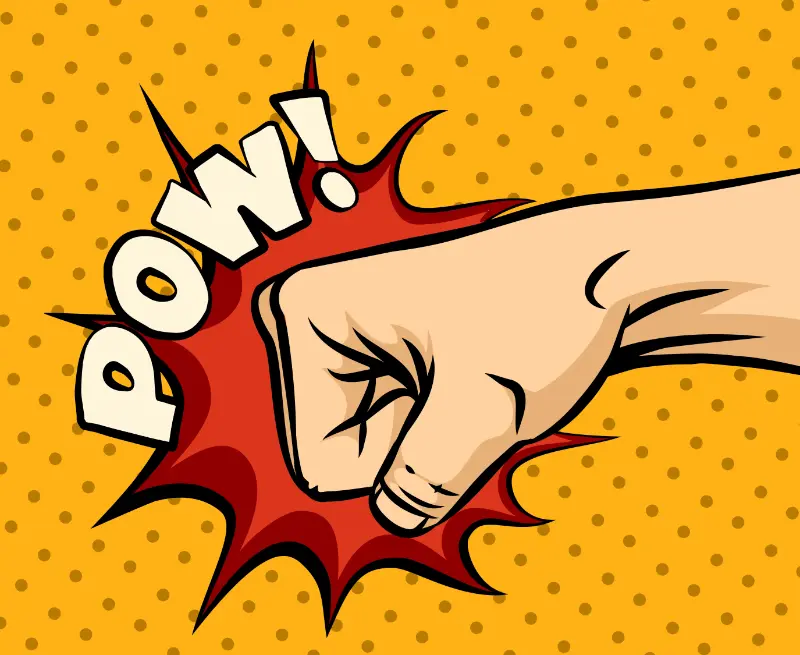
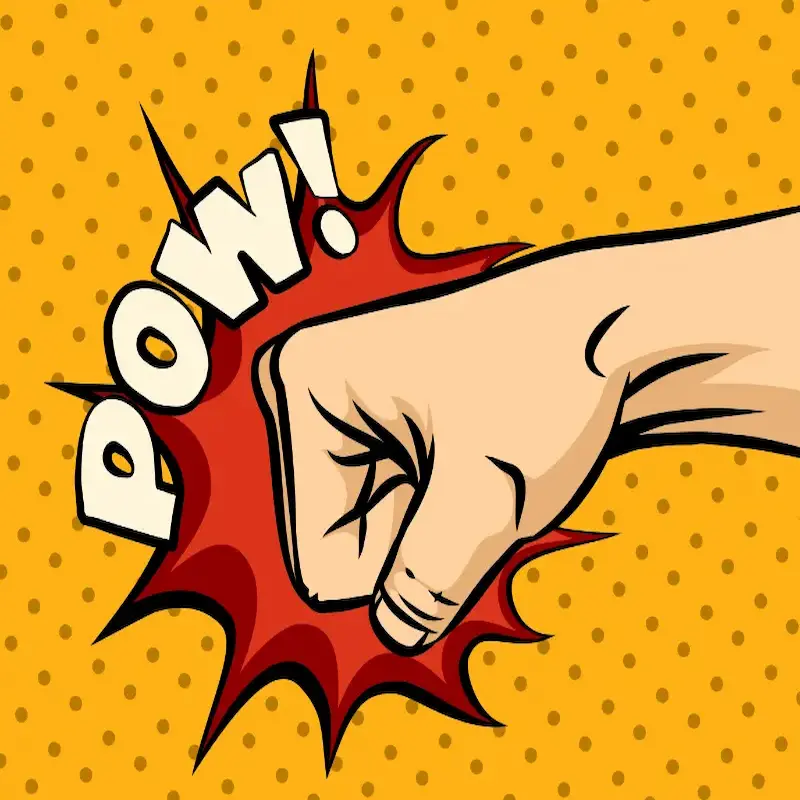
ajusted image sizes to make uniform

diff --git a/assets/css/style.css b/assets/css/style.css
@@ -122,7 +122,7 @@ ul {
 #image-placeholder img {
     width: 100%; /* Ensure the image takes up the full width of the placeholder */
     height: auto; /* Maintain aspect ratio */
-    padding-top: 20px;
+    padding-top: 15px; /* Add padding for spacing */
 }
 
 #normal-btn, #hard-btn {
